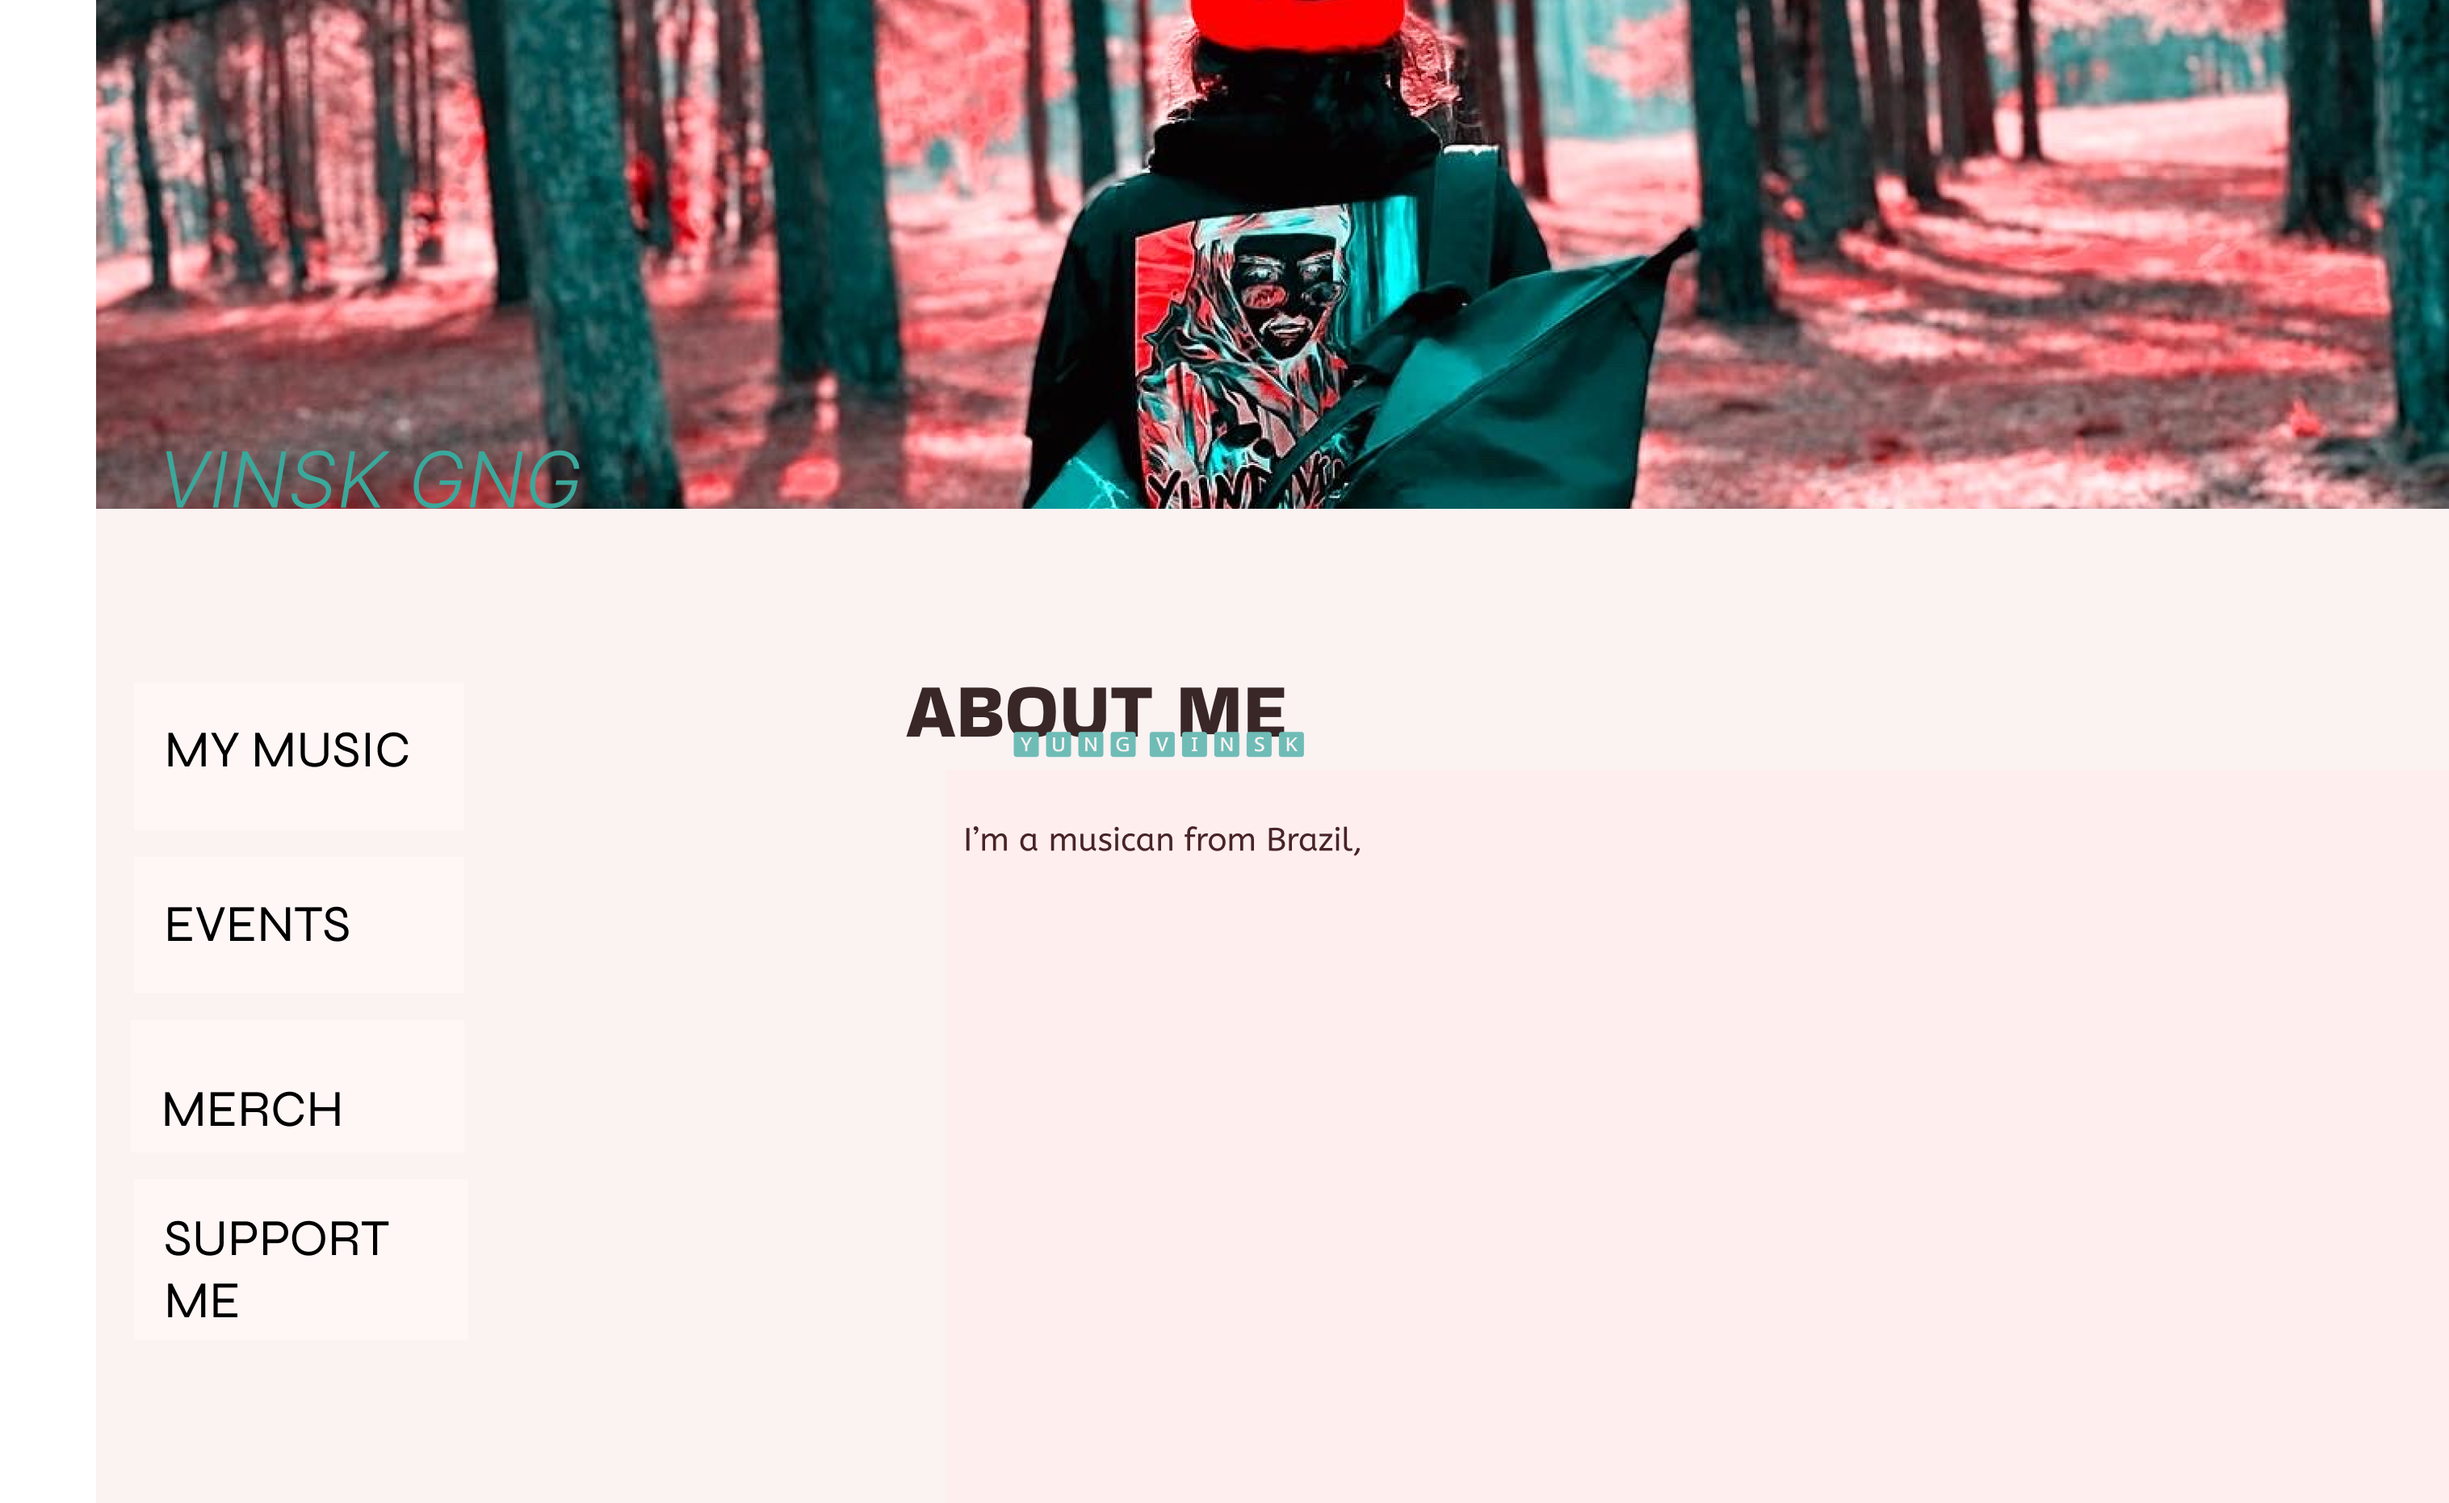
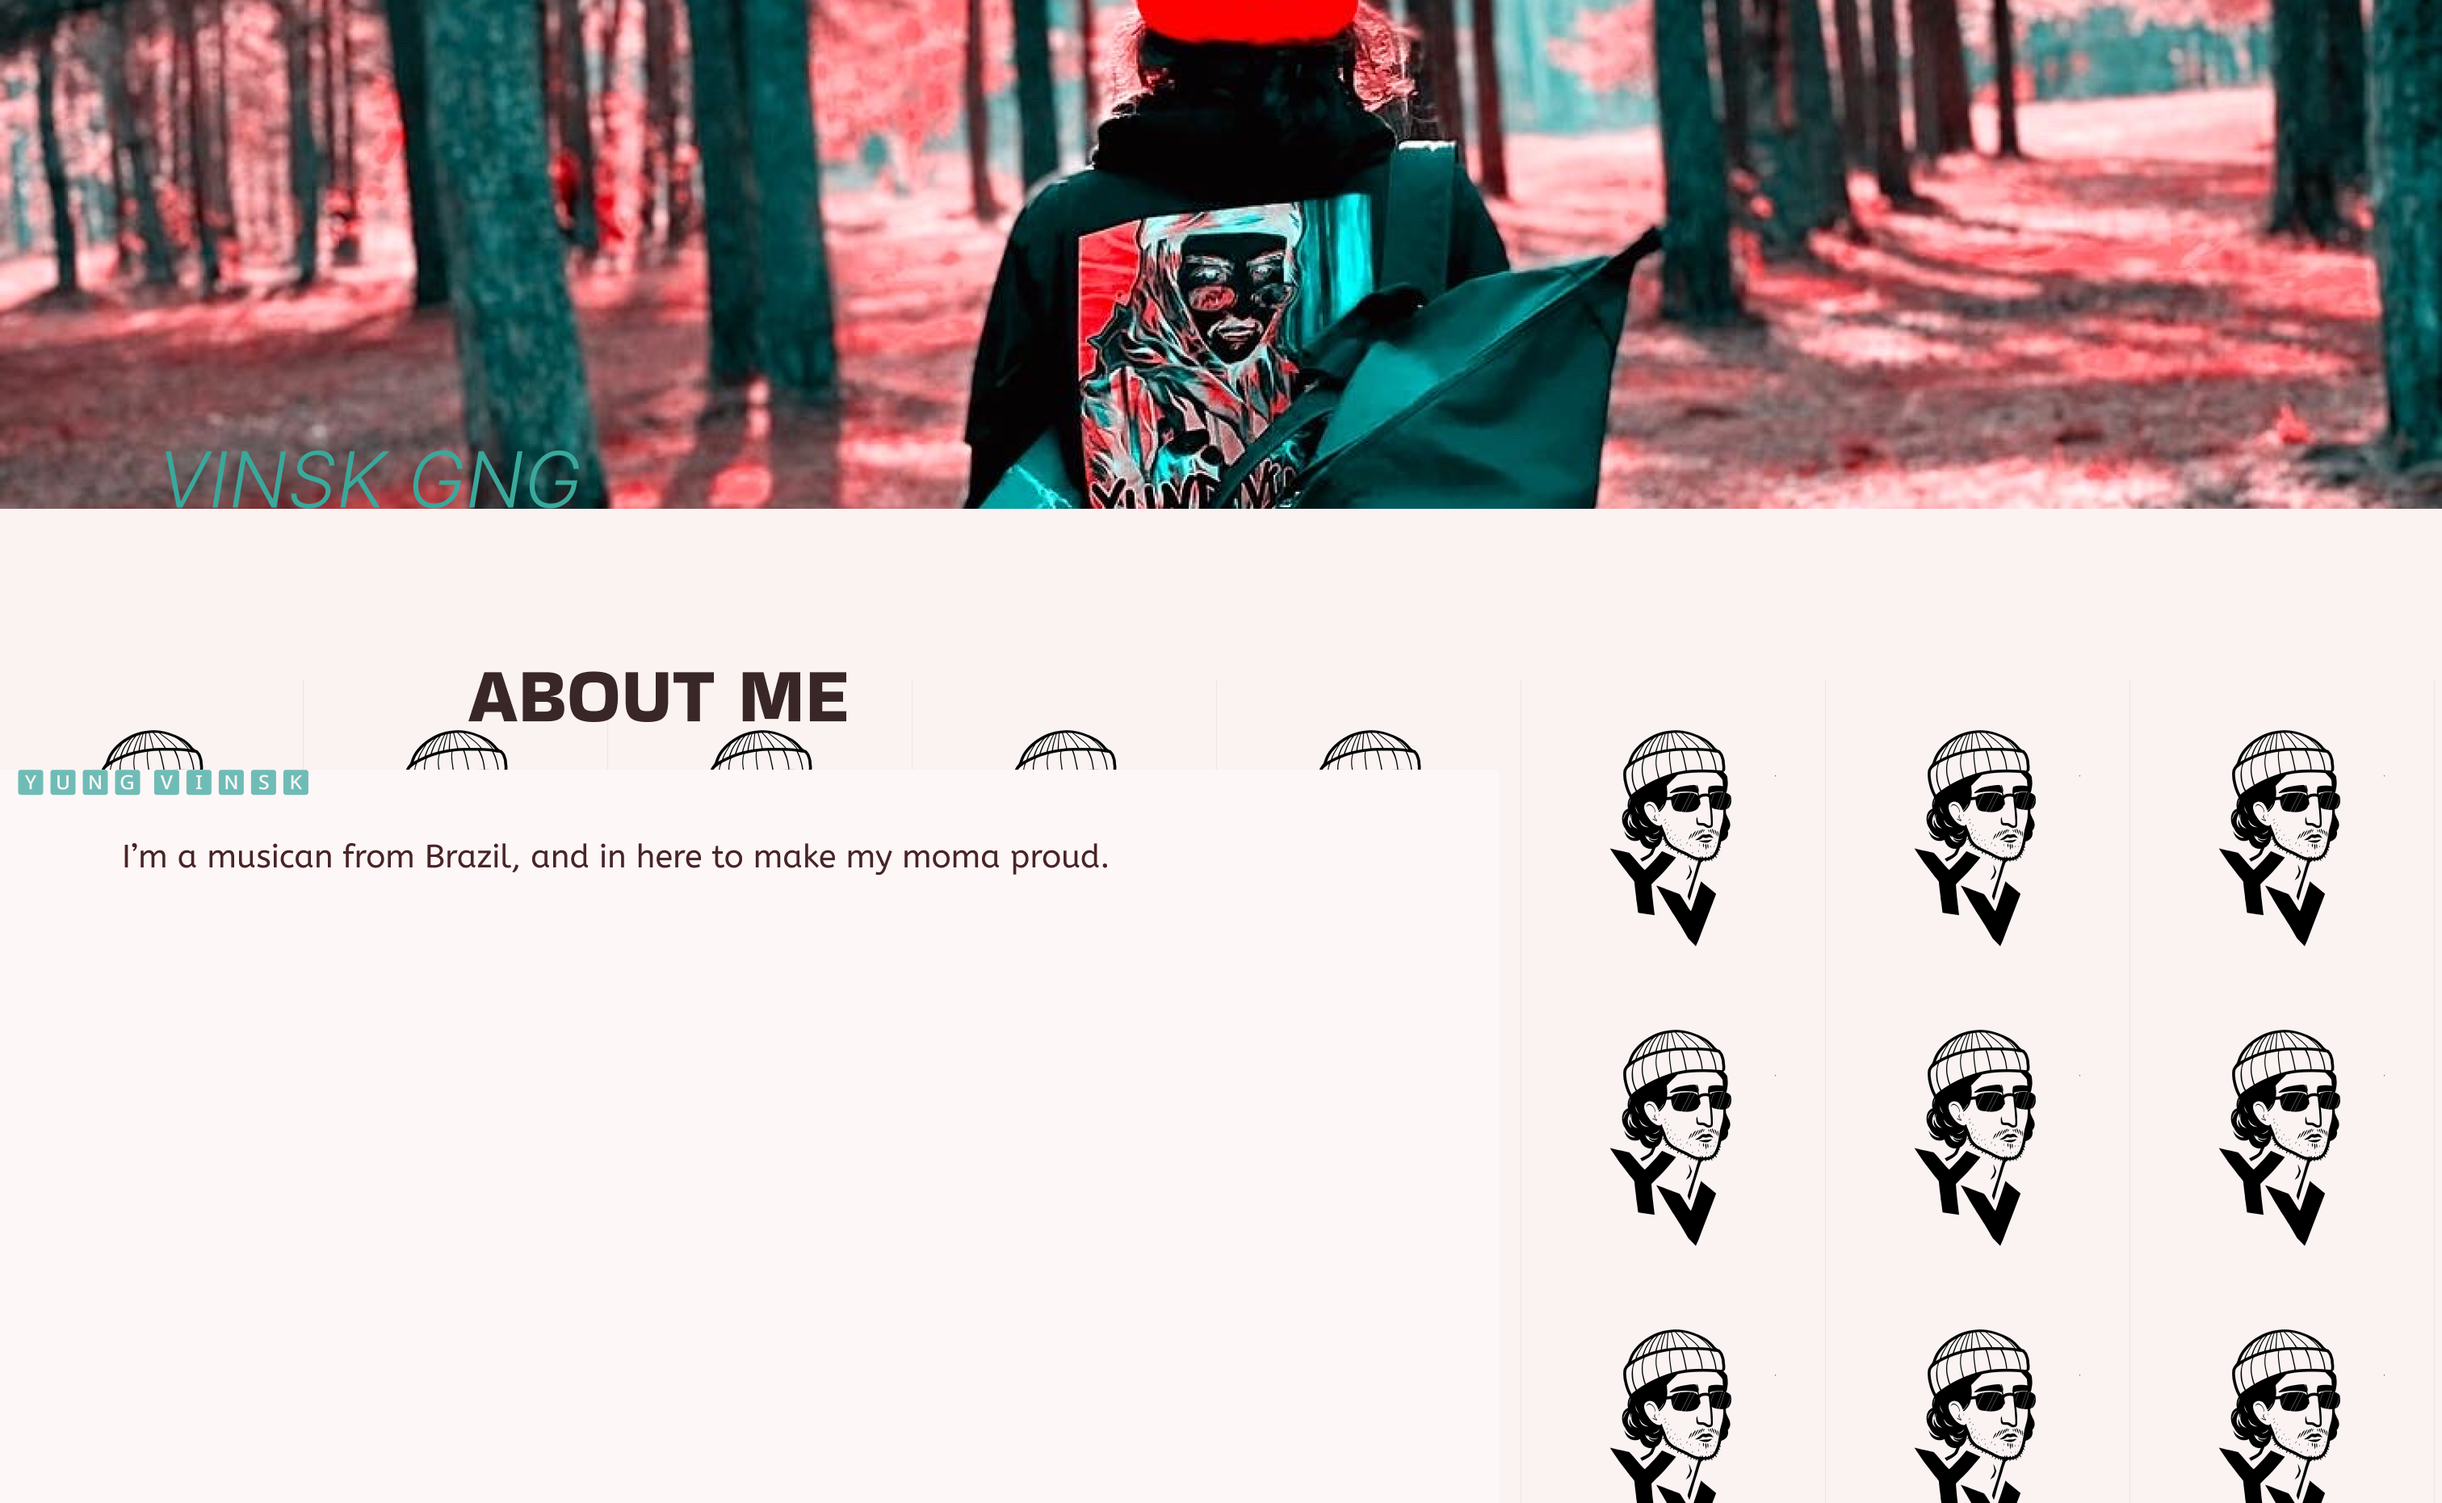
yi

diff --git a/index3.html b/index3.html
@@ -16,20 +16,10 @@
       }
     }
   </script>
-  <link rel="stylesheet" href="style.css" </head>
+</head>
 
 
 <body>
-
-  <nav>
-    <ul>
-      <li><a href="index.html">HOME</a></li>
-      <li><a href="MY MUSIC.html">MY MUSIC</a></li>
-      <li><a href="EVENTS.html">EVENTS</a></li>
-      <li><a href="MERCH.html">MERCH</a></li>
-      <li><a href="SUPPORT ME.html">SUPPORT ME</a></li>
-    </ul>
-  </nav>
 
   <style>
     .chat-notification {
@@ -68,6 +58,11 @@
       line-height: 1.5;
     }
   </style>
+  <a href="MY MUSIC.html" target="_blank">
+
+<img src="MY MUSIC.png">
+
+  </a>
   <img src="yw_main.png" alt="yw">
   <a href="index2.html">Free money</a>
   </a>
